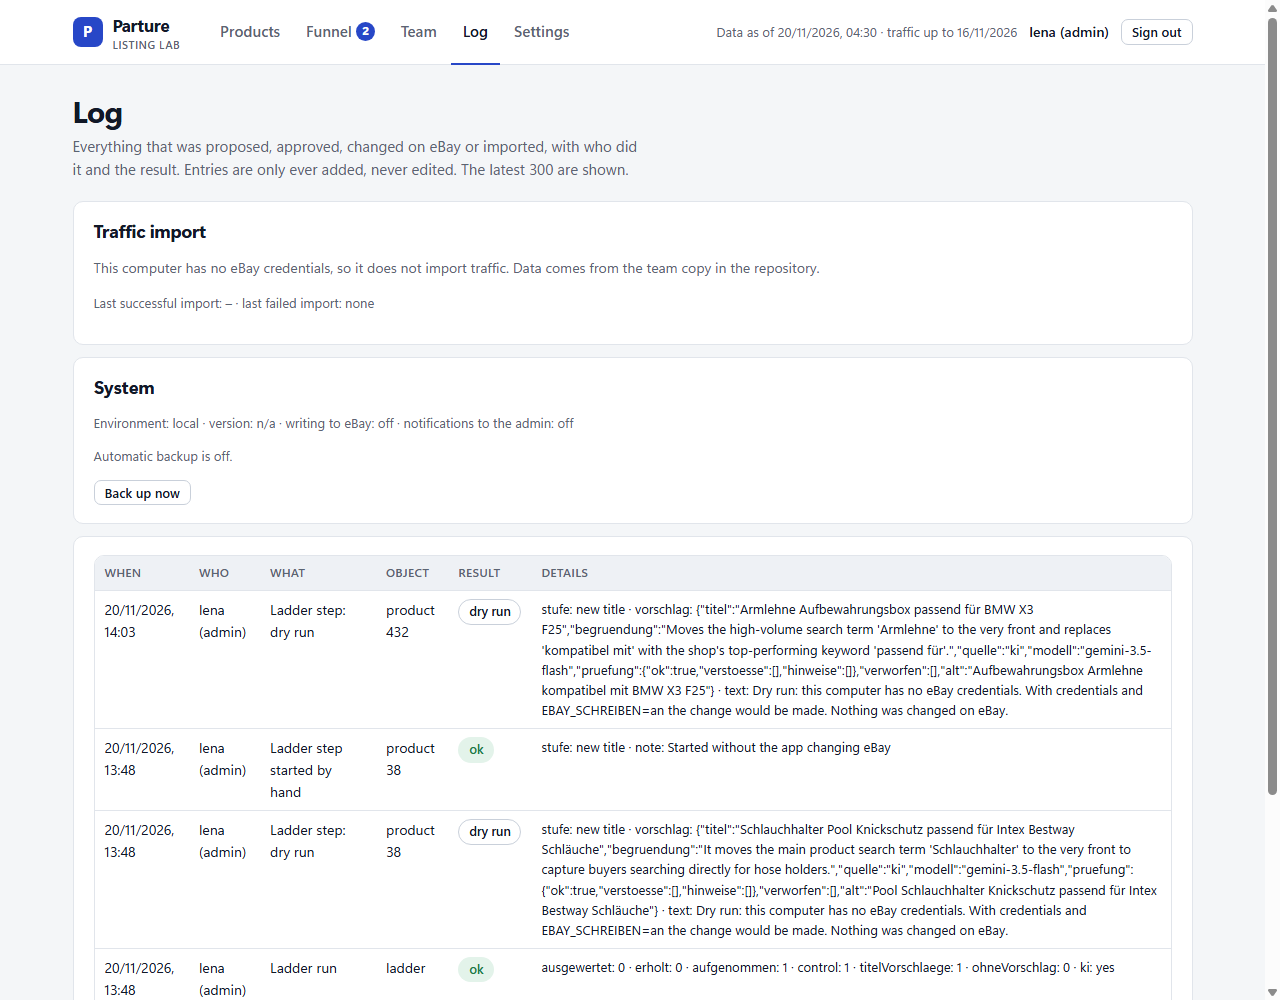
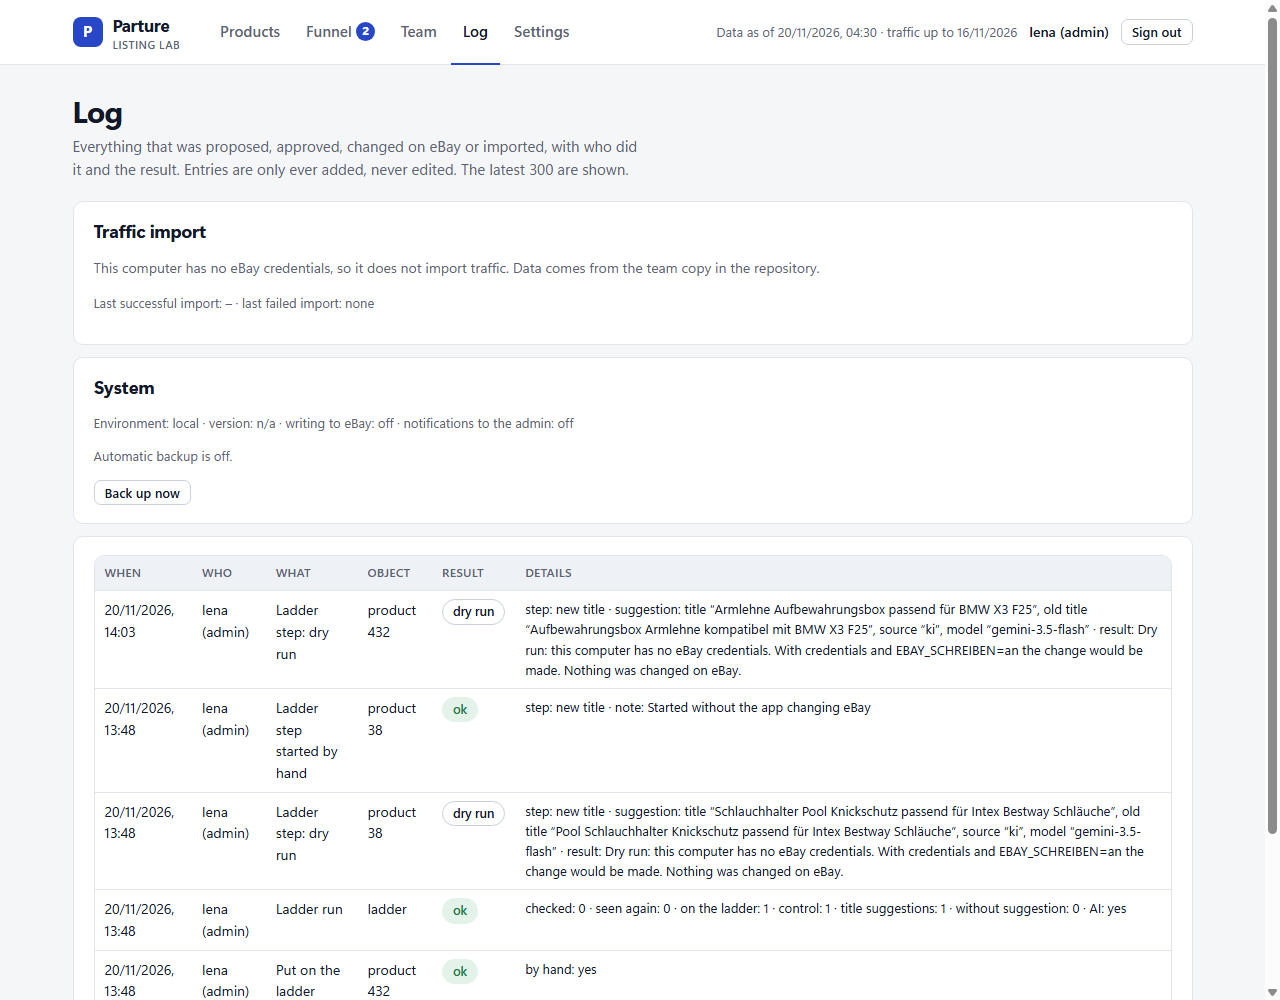
Log: Details lesbar statt als JSON, fehlende Bezeichnungen der Leiter ergänzt
Im Log stand der Vorschlag einer Leiterstufe als rohes JSON (vorschlag: {"titel": …}). Verschachtelte Werte
zeigen jetzt das Wichtigste (Titel, alter Titel, Satz, Quelle, Modell), Listen als Anzahl; ladder_added und die
Zähler des Laufs haben englische Bezeichnungen.

Claude-Session: https://claude.ai/code/session_013xoUqZN8mkJ7maVJTRBMV5

diff --git a/public/app.js b/public/app.js
@@ -847,11 +847,13 @@ const LOG_TEXT = {
   role_changed: "Role changed", change_proposed: "Change proposed", change_approved: "Approved", change_rejected: "Rejected", revert_proposed: "Revert proposed",
   ebay_changed: "Changed on eBay", ebay_failed: "eBay change failed", ebay_refused: "Not changed (title differs or listing inactive)", ebay_already_current: "Already up to date", ebay_dry_run: "Dry run",
   password_changed: "Password changed", backup: "Backup", test_created: "Test created", test_started: "Test started", test_started_manually: "Test started manually", test_closed: "Test closed", traffic_sync: "Traffic import",
-  ladder_run: "Ladder run", ladder_freigegeben: "Ladder step changed on eBay", ladder_probelauf: "Ladder step: dry run", ladder_fehlgeschlagen: "Ladder step failed", ladder_started_manually: "Ladder step started by hand",
+  ladder_run: "Ladder run", ladder_added: "Put on the ladder", ladder_freigegeben: "Ladder step changed on eBay", ladder_probelauf: "Ladder step: dry run", ladder_fehlgeschlagen: "Ladder step failed", ladder_started_manually: "Ladder step started by hand",
   ladder_skipped: "Ladder step skipped", ladder_decided: "Manual check decided", ladder_removed: "Taken off the ladder",
 };
 // Die Protokoll-Details haben deutsche Schlüssel (so stehen sie in der Datenbank); angezeigt werden sie englisch
 const DETAIL_TEXT = {
+  ausgewertet: "checked", erholt: "seen again", aufgenommen: "on the ladder", titelVorschlaege: "title suggestions", ohneVorschlag: "without suggestion", ki: "AI",
+  stufe: "step", vorschlag: "suggestion", titel: "title", quelle: "source", modell: "model", satz: "ad rate", text: "result", vonHand: "by hand", entscheidung: "decision", notiz: "note",
   test: "test", number: "product", alt: "old title", neu: "new title", art: "kind", aenderung: "change", anzahl: "count", schreibenAn: "writing to eBay", verkauft: "sold so far",
   ack: "eBay answer", grund: "reason", fehler: "error", hinweis: "note", von: "from", zu: "to", dateien: "files", aktuell_bei_ebay: "now on eBay", listingStatus: "listing status",
   seed: "draw number", kontrolle: "control", gesperrt: "excluded (price experiment)", ohneZugangsdaten: "no eBay credentials", abschluss: "outcome", gekuerzt: "shortened",
@@ -860,7 +862,15 @@ const DETAIL_TEXT = {
 };
 const WERT_TEXT = { titel: "new title", zurueck: "revert", behalten: "keep", true: "yes", false: "no" };
 const ERGEBNIS_TEXT = { ok: "ok", error: "error", dry_run: "dry run", refused: "refused" };
-const detailText = (details) => Object.entries(details).map(([k, v]) => `${DETAIL_TEXT[k] || k}: ${v !== null && typeof v === "object" ? JSON.stringify(v) : WERT_TEXT[String(v)] ?? v}`).join(" · ");
+// Verschachtelte Werte (z. B. der Vorschlag einer Leiterstufe) lesbar statt als JSON: das Wichtigste zuerst, Prüfdetails weg
+const WICHTIG = ["titel", "alt", "satz", "neu", "quelle", "modell"];
+const wertText = (v) => {
+  if (v === null || typeof v !== "object") return WERT_TEXT[String(v)] ?? v;
+  if (Array.isArray(v)) return v.length + " " + (v.length === 1 ? "entry" : "entries");
+  const teile = WICHTIG.filter((k) => v[k] != null && v[k] !== "").map((k) => `${DETAIL_TEXT[k] || k} “${v[k]}”`);
+  return teile.length ? teile.join(", ") : Object.entries(v).filter(([, x]) => x === null || typeof x !== "object").map(([k, x]) => `${DETAIL_TEXT[k] || k} ${x}`).join(", ");
+};
+const detailText = (details) => Object.entries(details).map(([k, v]) => `${DETAIL_TEXT[k] || k}: ${wertText(v)}`).join(" · ");
 async function ladeLog() {
   const root = $("#ansicht-log");
   try {
